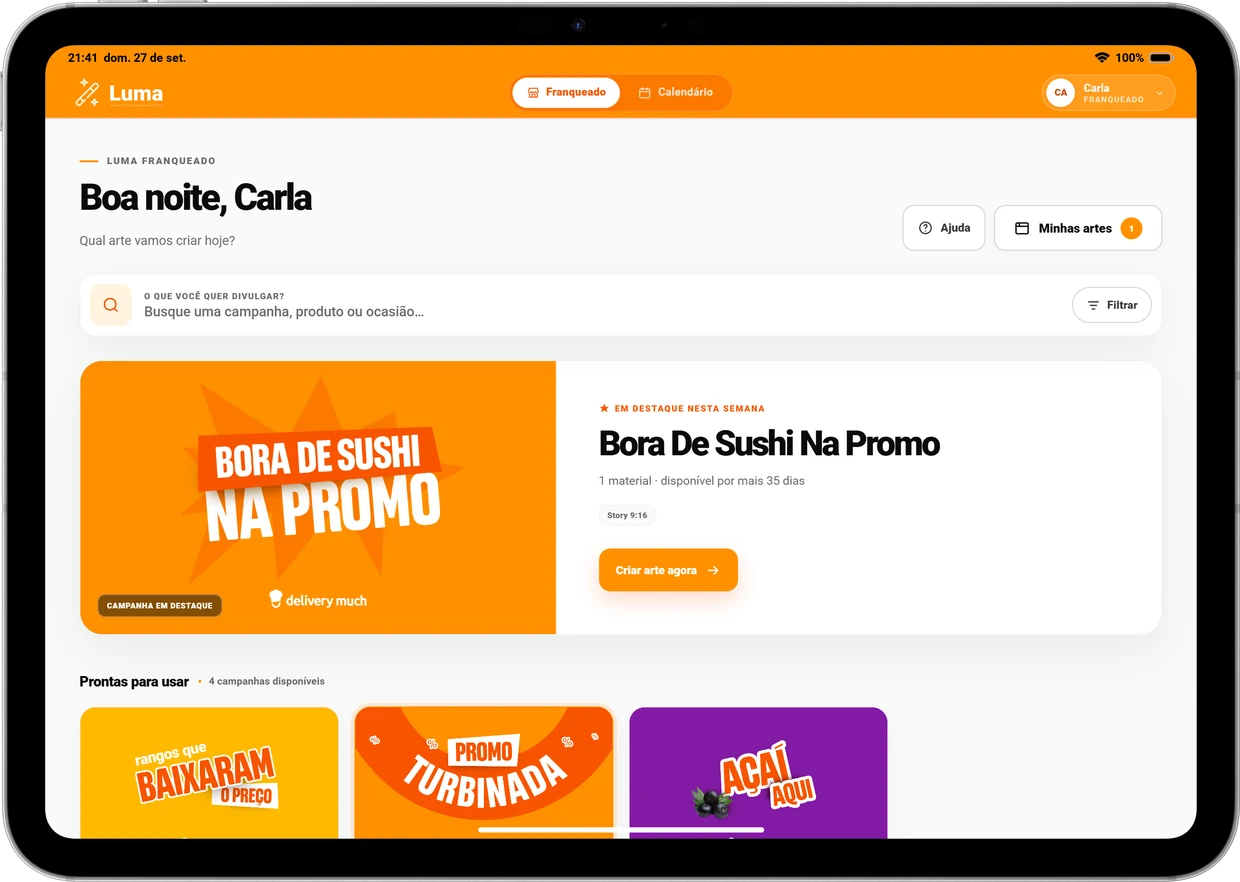
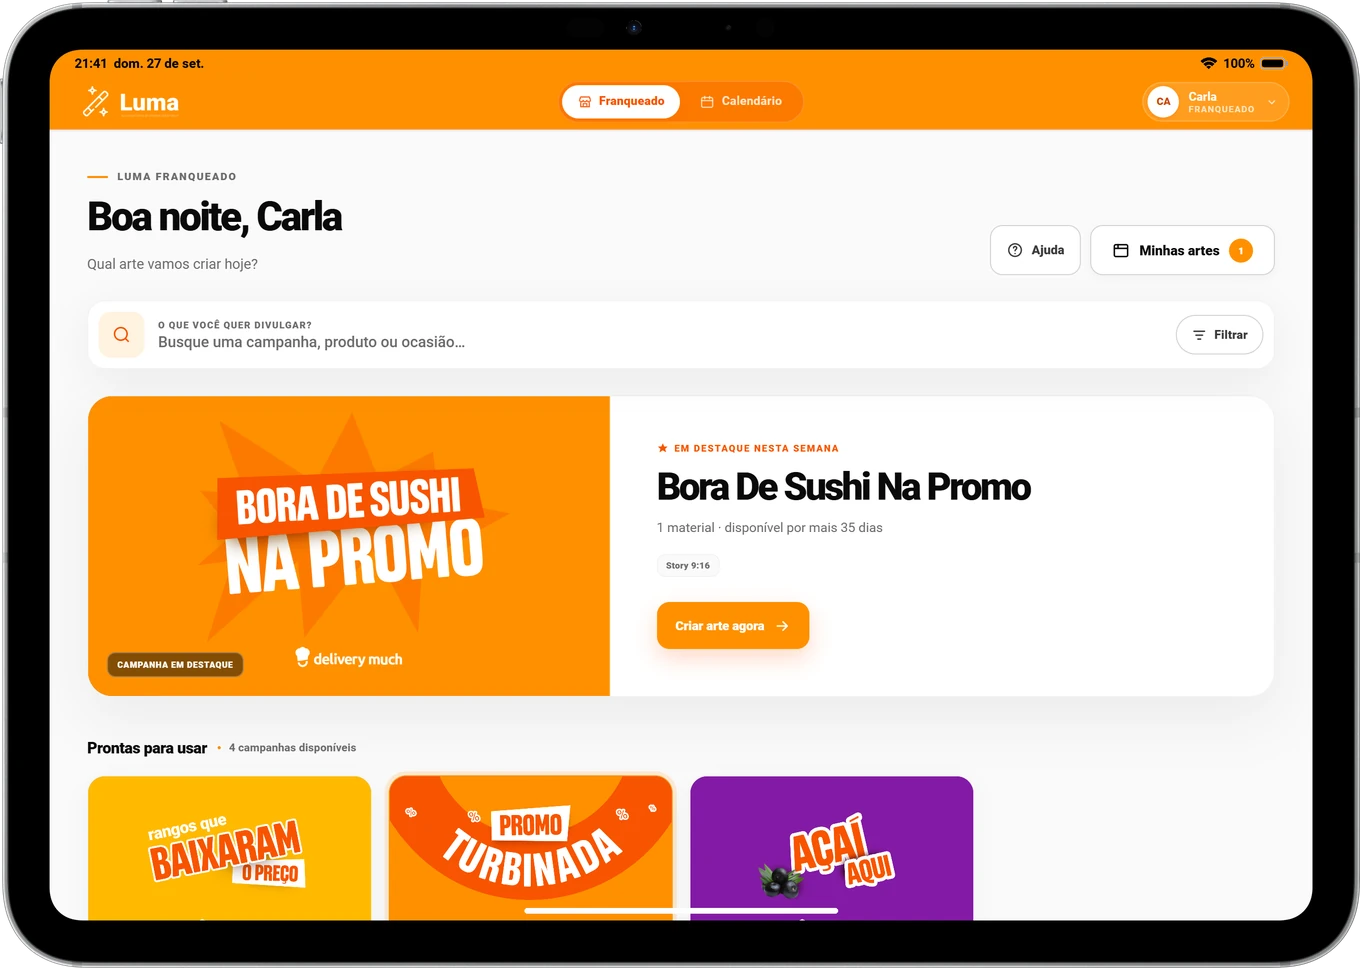
Apresentação: capa volta ao palco dinâmico (MacBook saindo por baixo, iPad e iPhone na frente) com as molduras realistas em 2x

diff --git a/presentation/presentation.css b/presentation/presentation.css
@@ -183,7 +183,7 @@ body.clean .chrome-num, body.clean .chrome-progress { opacity: 0; }
 /* ══ SLIDES ═══════════════════════════════════════════════════════════════════════════════ */
 
 /* 01 — Capa */
-/* Palco central: frase no topo e, embaixo, a família de aparelhos em fileira */
+/* Palco central: frase no topo; MacBook ao centro saindo pela borda de baixo, iPad deitado e iPhone na frente */
 .s-capa { background: radial-gradient(1100px 620px at 50% 96%, #FFB347 0%, rgba(255, 176, 60, 0) 62%), linear-gradient(180deg, var(--orange) 0%, #FF8C00 55%, #F87400 100%); }
 /* O PNG da Delivery Much tem margem transparente (o desenho ocupa 57 % da altura) e o do Luma não:
    34 px e 50 px deixam as duas marcas com o mesmo peso */
@@ -195,13 +195,14 @@ body.clean .chrome-num, body.clean .chrome-progress { opacity: 0; }
 .s-capa .copy { position: absolute; left: 0; right: 0; top: 190px; text-align: center; }
 .s-capa .copy .h-hero { font-size: 104px; color: #fff; }
 .s-capa .copy .lead { margin-top: 26px; font-size: 28px; color: rgba(10, 10, 10, .72); }
-/* Molduras oficiais da Apple (Apple Design Resources) com a tela já composta. Valem as regras da Apple:
-   aparelho inteiro, sem sobrepor, sem cortar, sem sombra e em escala real entre eles (2,2 px por mm) */
+/* Molduras oficiais da Apple (Apple Design Resources) com a tela já composta, em palco dinâmico e escalonado:
+   o iPhone cobre os botões "Ajuda · Minhas artes" do MacBook por inteiro e o iPad começa logo abaixo da busca,
+   para não sobrar pedaço de interface na borda deles */
 .s-capa .scene { position: absolute; inset: 0; }
-.s-capa .dv { position: absolute; bottom: 50px; height: auto; }
-.s-capa .dv-ipad { left: 126px; width: 552px; }    /* iPad Pro 11", 250,7 mm */
-.s-capa .dv-mac { left: 738px; width: 837px; }     /* MacBook Pro 14", 380,5 mm */
-.s-capa .dv-phone { left: 1635px; width: 160px; }  /* iPhone 18 Pro, 72,8 mm */
+.s-capa .dv { position: absolute; height: auto; }
+.s-capa .dv-mac { left: 378px; top: 520px; width: 1224px; z-index: 1; filter: drop-shadow(0 40px 70px rgba(80, 30, 0, .35)); }
+.s-capa .dv-ipad { left: 280px; top: 767px; width: 680px; z-index: 2; filter: drop-shadow(0 30px 60px rgba(60, 20, 0, .45)); }
+.s-capa .dv-phone { left: 1268px; top: 636px; width: 272px; z-index: 3; filter: drop-shadow(0 30px 60px rgba(60, 20, 0, .45)); }
 
 /* 02 — Problema */
 .s-problema .source { position: absolute; left: var(--pad-x); top: 376px; width: 380px; }

diff --git a/presentation/README.md b/presentation/README.md
@@ -71,8 +71,9 @@ presentation/
   do franqueado capturada na resolução nativa do aparelho (`captures/franqueado-home-macbook|tablet|mobile.webp`).
   O MacBook mostra o Safari em tela cheia, com a faixa preta de 37 pt atrás do notch. O iPad e o iPhone mostram o Luma
   aberto pela tela inicial, com a barra de status do sistema no laranja do `theme-color`, 21:41 porque a saudação é
-  "Boa noite". As regras de marketing da Apple valem aqui: aparelho inteiro, sem sobrepor, sem cortar, sem sombra ou
-  reflexo e em escala real entre eles (a capa usa 2,2 px por mm).
+  "Boa noite". Atenção: a capa sobrepõe, corta pela borda e sombreia as molduras (decisão de 27/09). As diretrizes de
+  marketing da Apple pedem o contrário (aparelho inteiro, sem sobrepor, sem cortar, sem sombra, em escala real); se o
+  deck virar material de divulgação, reveja a capa.
 
 ## Atualizar
 

diff --git a/presentation/SPEAKER_NOTES.md b/presentation/SPEAKER_NOTES.md
@@ -26,7 +26,7 @@
 - **Transição:** "Antes do produto, o problema que ele resolve."
 - **Perguntas difíceis:**
   - *"Essas telas são reais ou mockup?"* As telas são capturas do app, numa cópia local sem dados de produção,
-    na resolução nativa de cada aparelho. As molduras são as oficiais da Apple, em escala real.
+    na resolução nativa de cada aparelho. As molduras dos aparelhos são as oficiais da Apple.
     As campanhas da vitrine foram importadas de PSD e publicadas pelo fluxo normal do Estúdio.
 
 ## 02 · O problema — "Escalar a rede não deveria escalar o retrabalho."
